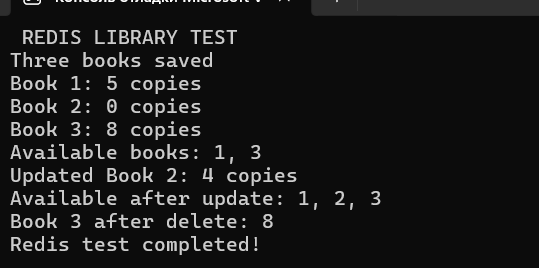
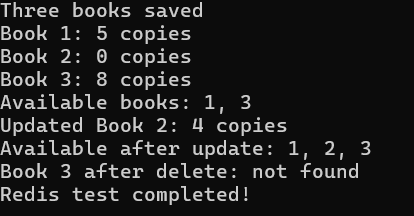
Fix Redis results and update documentation

diff --git a/README.md b/README.md
@@ -1,0 +1,193 @@
+# Лабораторна робота: SQL та NoSQL у системі управління бібліотекою
+
+## Мета роботи
+
+Реалізувати зберігання й пошук даних бібліотеки у реляційній PostgreSQL та двох NoSQL-системах різних типів - документній MongoDB і Redis типу «ключ–значення». Виконати еквівалентні за змістом запити й порівняти час їх виконання на наборах різного обсягу.
+
+## 1. Реалізація MongoDB
+
+Для каталогу книг обрано **документну модель**. У PostgreSQL відомості про книги, авторів, жанри, видавництва та примірники розподілені між пов'язаними таблицями (`books`, `authors`, `book_authors`, `genres`, `book_genres`, `publishers`, `book_copies`). Під час перенесення до MongoDB пов'язані відомості об'єднуються в один документ колекції `books`.
+
+Це доцільно для перегляду каталогу: разом із книгою можна одразу отримати її авторів, жанри, видавництво й кількість доступних примірників без додаткових `JOIN`. Водночас дані про доступність потрібно оновлювати після видачі чи повернення книги, тому MongoDB не замінює основний транзакційний облік у PostgreSQL.
+
+Один документ містить `book_id`, `title`, `isbn`, `publish_year`, `publisher`, масиви `authors`, `genres` та `available_copies`.
+
+![Документи колекції books](screenshots/mongodb_documents.png)
+
+**Приклади запитів MongoDB (фільтри колекції `books`):**
+
+```javascript
+// Книга з ідентифікатором 1
+{ "book_id": 1 }
+
+// Книги, видані після 2005 року
+{ "publish_year": { "$gt": 2005 } }
+
+// Книги, які мають доступні примірники
+{ "available_copies": { "$gt": 0 } }
+```
+
+<details>
+<summary>Результати пошукових запитів MongoDB</summary>
+
+**Пошук за ідентифікатором**
+
+![MongoDB: пошук книги за ID](screenshots/mongodb_search_id.png)
+
+**Фільтрація за роком видання**
+
+![MongoDB: книги після 2005 року](screenshots/mongodb_publish_year.png)
+
+**Пошук доступних книг**
+
+![MongoDB: доступні книги](screenshots/mongodb_available.png)
+
+</details>
+
+## 2. Реалізація PostgreSQL
+
+Ті самі відомості представлені в нормалізованій реляційній схемі. Інформація про авторів, жанри, видавництва та примірники зберігається окремо й пов'язується зовнішніми ключами. Це зручно для підтримання узгодженості даних, зокрема при видачі та поверненні книг.
+
+**Аналогічні SQL-запити:**
+
+```sql
+-- Пошук книги за ID
+SELECT *
+FROM books
+WHERE book_id = 1 AND is_deleted = FALSE;
+
+-- Книги після 2005 року
+SELECT *
+FROM books
+WHERE publish_year > 2005 AND is_deleted = FALSE;
+
+-- Книги з доступними примірниками
+SELECT b.book_id, b.title, COUNT(bc.copy_id) AS available_copies
+FROM books b
+JOIN book_copies bc ON bc.book_id = b.book_id
+WHERE bc.status = 'available'
+  AND bc.is_deleted = FALSE
+  AND b.is_deleted = FALSE
+GROUP BY b.book_id, b.title;
+```
+
+У третьому запиті PostgreSQL підраховує наявні примірники за рядками `book_copies`, тоді як MongoDB читає попередньо збережене поле `available_copies`. Результати логічно зіставні за умови, що це поле в MongoDB актуалізоване.
+
+<details>
+<summary>Результати SQL-запитів</summary>
+
+**Пошук за ідентифікатором**
+
+![PostgreSQL: пошук книги за ID](screenshots/postgresql_search_id.png)
+
+**Фільтрація за роком видання**
+
+![PostgreSQL: книги після 2005 року](screenshots/postgresql_publish_year.png)
+
+**Пошук доступних книг**
+
+![PostgreSQL: доступні примірники](screenshots/postgresql_available.png)
+
+</details>
+
+## 3. Порівняння швидкодії PostgreSQL та MongoDB
+
+### Методика
+
+Початкова бібліотека містила замало книг для змістовного дослідження масштабування. Тому для експерименту було згенеровано **ідентичні за значеннями набори з 1 000, 10 000 і 30 000 книг**. Їх розміщено окремо від основних даних: у таблиці PostgreSQL `benchmark_books` і в однойменній колекції MongoDB. Для порівнянних умов створено індекси на полях `book_id`, `publish_year` та `available_copies`.
+
+Перевірялися три операції: пошук за ID, підрахунок книг після 2005 року та підрахунок книг із доступними примірниками. У PostgreSQL використано `COUNT(*)`, у MongoDB - `CountDocumentsAsync()`. Для кожної операції виконано **5 прогрівів і 30 вимірювань** з `Stopwatch` у C#. Порівнювалися середній час, медіана та кількість знайдених записів; порядок виконання запитів чергувався.
+
+### Результати масштабування
+
+Нижче наведено фактичний **середній час відповіді у мілісекундах** (менше - краще).
+
+| Книг | Операція | PostgreSQL, мс | MongoDB, мс | Кількість результатів в обох БД |
+|---:|---|---:|---:|---:|
+| 1 000 | Пошук за ID | 0,483 | 46,967 | 1 |
+| 1 000 | Після 2005 року | 0,561 | 47,495 | 537 |
+| 1 000 | Доступні книги | 0,426 | 49,077 | 834 |
+| 10 000 | Пошук за ID | 0,340 | 46,314 | 1 |
+| 10 000 | Після 2005 року | 0,566 | 50,528 | 5 425 |
+| 10 000 | Доступні книги | 0,676 | 50,527 | 8 334 |
+| 30 000 | Пошук за ID | 0,357 | 47,305 | 1 |
+| 30 000 | Після 2005 року | 1,155 | 55,605 | 16 283 |
+| 30 000 | Доступні книги | 1,311 | 56,050 | 25 000 |
+
+Кількість результатів у PostgreSQL та MongoDB **збіглася для кожного запиту**. Це підтверджує, що порівнювані умови на тестових наборах дають однакові результати.
+
+<details>
+<summary>Повні результати вимірювань (скриншоти)</summary>
+
+**1 000 книг**
+
+![Швидкодія на 1000 книгах](screenshots/benchmark_1000.png)
+
+**10 000 книг**
+
+![Швидкодія на 10000 книгах](screenshots/benchmark_10000.png)
+
+**30 000 книг**
+
+![Швидкодія на 30000 книгах](screenshots/benchmark_30000.png)
+
+</details>
+
+### Початкове тестування
+
+До генерації великих наборів було також перевірено запити до початкових даних бібліотеки: 10 прогрівів і 100 повторень. На відміну від тесту масштабування, тут отримувалися рядки, а не лише їх кількість, тому ці вимірювання наведено окремо.
+
+| Операція | PostgreSQL, мс | MongoDB, мс |
+|---|---:|---:|
+| Пошук за ID | 0,557 | 59,145 |
+| Книги після 2005 року | 0,540 | 47,839 |
+| Доступні книги | 0,514 | 47,793 |
+
+<details>
+<summary>Скриншот початкового порівняння</summary>
+
+![Початкове тестування](screenshots/benchmark_initial.png)
+
+</details>
+
+### Аналіз результатів
+
+У всіх проведених тестах **локальна PostgreSQL мала менший виміряний час відповіді**, ніж MongoDB. Для пошуку за індексованим ID час майже не змінювався зі збільшенням обсягу даних. Для підрахунку книг за роком та доступністю час дещо зростав, особливо на 30 000 записів.
+
+Водночас PostgreSQL працювала на локальному комп'ютері, а MongoDB - на віддаленому сервері. Час MongoDB включає мережеву затримку, тому отримані числа **не доводять загальної переваги SQL над NoSQL** і не є чистим порівнянням продуктивності серверів. Вони характеризують час відповіді за конкретної конфігурації експерименту.
+
+## 4. Реалізація Redis
+
+Для реалізації другого типу NoSQL обрано Redis — базу даних типу «ключ–значення». Її використано для зберігання кількості доступних примірників книг.
+
+Для кожної книги створюється окремий ключ `library:book:{id}:available_count`, значенням якого є кількість доступних примірників. Додатково використовується множина `library:books:index` для зберігання ідентифікаторів книг.
+
+### Реалізовані операції
+
+| Операція | Метод | Призначення |
+|---|---|---|
+| Запис | `StringSetAsync` | Збереження кількості примірників |
+| Читання | `StringGetAsync` | Отримання кількості примірників |
+| Оновлення | `StringSetAsync` | Зміна збереженого значення |
+| Видалення | `KeyDeleteAsync` | Видалення даних книги |
+| Пошук | `SetMembersAsync` | Отримання ID книг із подальшою перевіркою доступності |
+
+### Результати виконання
+
+Під час тестування було збережено інформацію про три книги з кількістю примірників 5, 0 та 8 відповідно.
+
+Початковий пошук повернув книги з ID 1 і 3. Після оновлення кількості примірників другої книги з 0 до 4 вона також з'явилася серед доступних.
+
+Після видалення третьої книги повторне читання повернуло `not found`, що підтверджує успішне видалення запису.
+
+![Результати операцій Redis](screenshots/redis_operations.png)
+
+Таким чином, реалізовано основні операції з даними в Redis, а також пошук книг за наявністю доступних примірників.
+
+## 5. Висновок
+
+Під час лабораторної роботи реалізовано використання трьох моделей зберігання даних для бібліотеки. Основна реляційна структура залишилася в **PostgreSQL**: зв'язки між книгами, авторами, жанрами, видавництвами та примірниками представлені таблицями. У **MongoDB** сформовано документне подання каталогу, де основні відомості про книгу зберігаються разом. У **Redis** реалізовано допоміжне сховище кількості доступних примірників із читанням, оновленням, пошуком і видаленням ключів.
+
+Однакові тестові дані та еквівалентні умови запитів дали однакову кількість результатів у PostgreSQL і MongoDB для всіх трьох масштабів - **1 000, 10 000 і 30 000 книг**. У протестованому середовищі PostgreSQL мала менший час відповіді, але основним обмеженням такого порівняння є різниця між локальним і віддаленим розміщенням баз.
+
+Отже, доцільність NoSQL визначається не лише швидкістю запиту. MongoDB зручна для читання цілісних документів каталогу; Redis - для простих часто запитуваних значень; PostgreSQL - для взаємопов'язаних даних і операцій, що потребують узгодженості. Для спільного використання цих систем необхідно передбачати актуалізацію дубльованої інформації.
